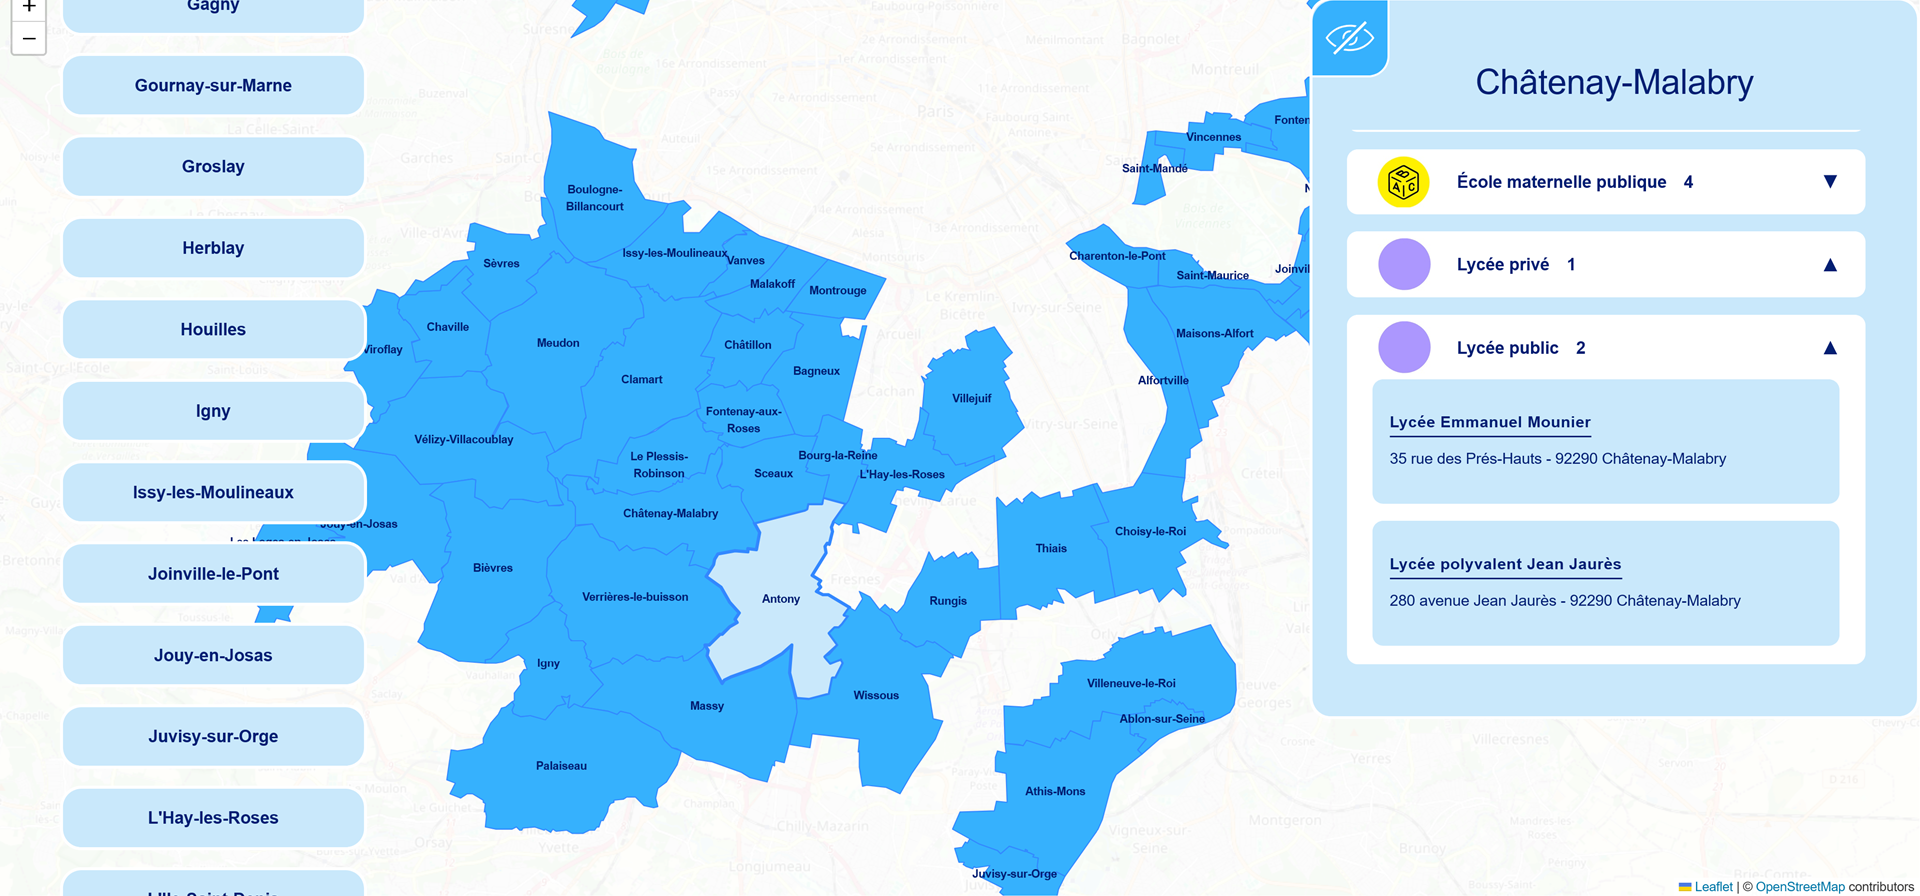
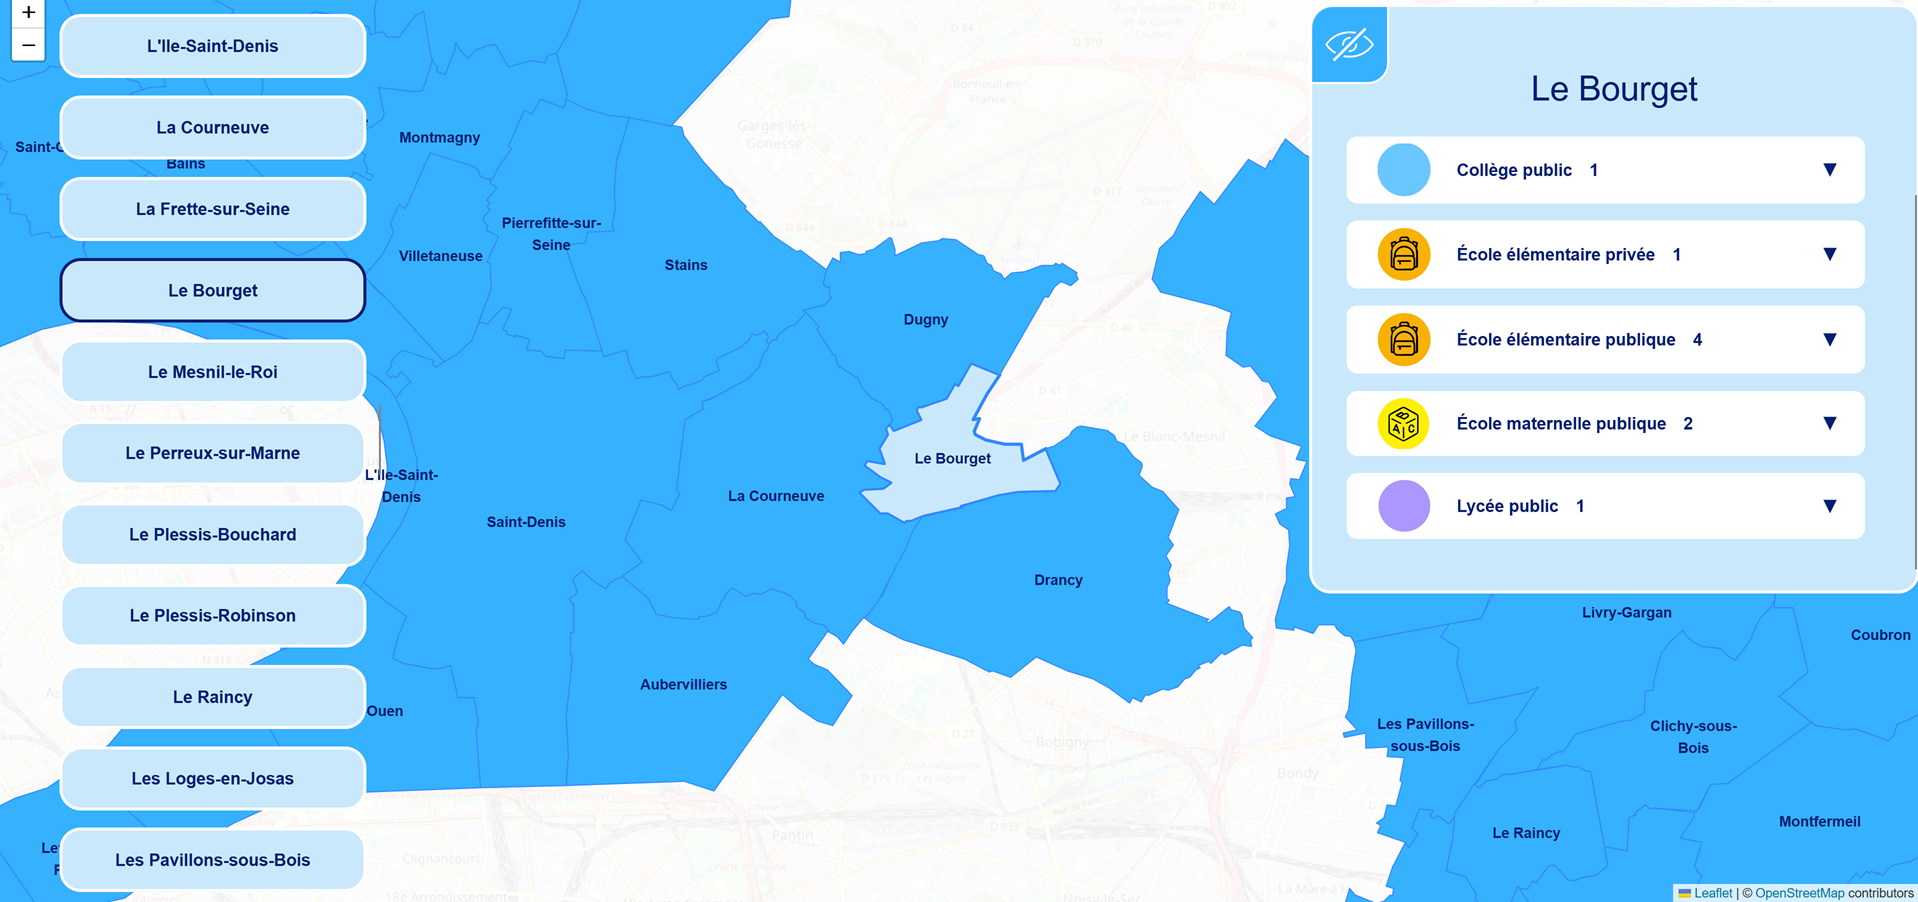
ajout carte sedif leaflet

diff --git a/pages/projets/carte_sedif.html b/pages/projets/carte_sedif.html
@@ -45,6 +45,10 @@
                         src="./../../images/technos/mysql.svg"
                         class="img-techno"
                         alt="logo MySql" />
+                    <img
+                        src="./../../images/technos/WordPress-logotype-wmark-white.png"
+                        class="img-techno"
+                        alt="logo wordpress" />
                 </div>
             </div>
             <!-- CAROUSEL -->

diff --git a/pages/projets/candidat.html b/pages/projets/candidat.html
@@ -36,7 +36,7 @@
                     <img
                         src="./../../images/technos/WordPress-logotype-wmark-white.png"
                         class="img-techno"
-                        alt="logo javascript" />
+                        alt="logo wordpress" />
                 </div>
             </div>
             <!-- CAROUSEL -->
